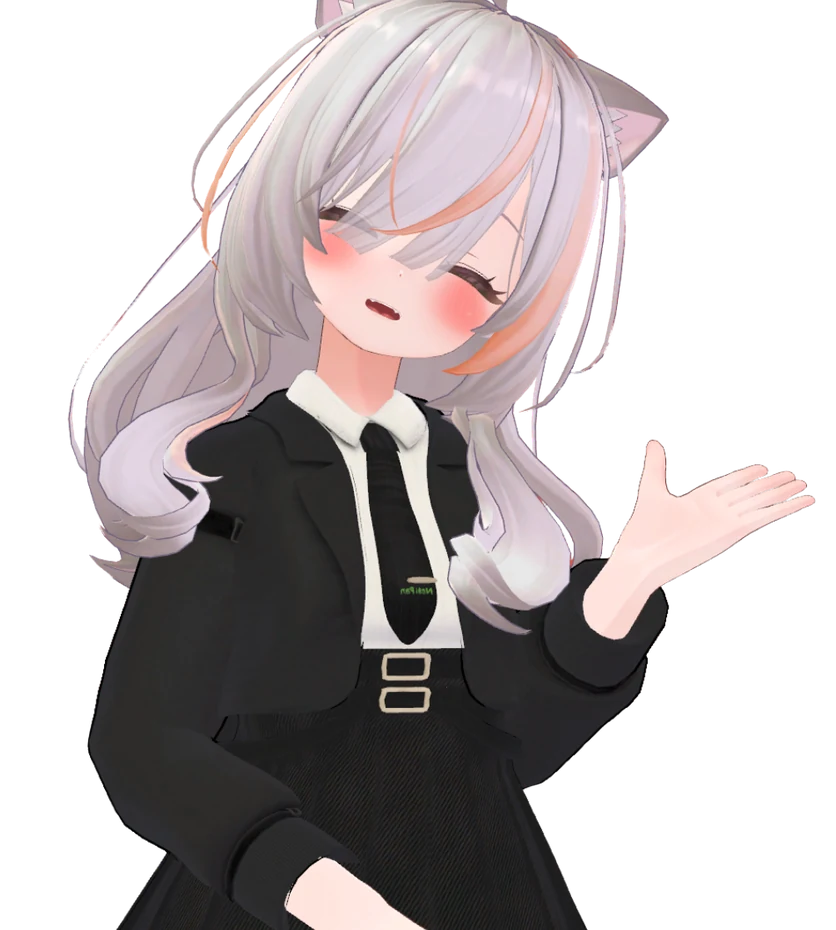
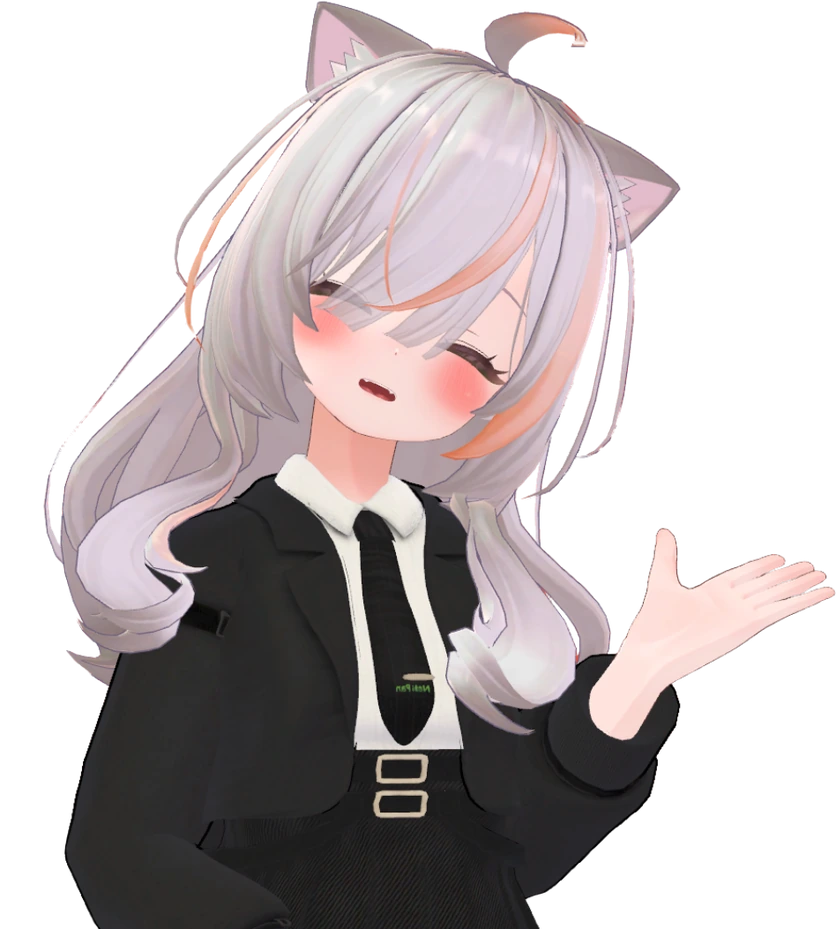
スマホのトップで、めいゆんの頭の先を集会一覧ボタンの上端に揃える (#861)
* スマホのトップで、めいゆんの頭の先を集会一覧ボタンの上端に揃える

Claude-Session: https://claude.ai/code/session_01Lubq5EXbzfQ2LSNgoBTVWM

* トップのヒーローのめいゆんを、耳が切れない形で元画像から切り出し直す

Claude-Session: https://claude.ai/code/session_01Lubq5EXbzfQ2LSNgoBTVWM

---------

diff --git a/app/ta_hub/templates/ta_hub/index.html b/app/ta_hub/templates/ta_hub/index.html
@@ -391,9 +391,9 @@
 
         .top-hero-inner {
             position: relative;
-            min-height: 560px;
             padding-top: 36px;
-            padding-bottom: 200px;
+            /* スマホは めいゆんの頭の先をボタン上端に揃える: 画像の高さ 180px = ボタン 52px + 下余白 128px */
+            padding-bottom: 128px;
         }
 
         .top-hero-copy {

diff --git a/CHANGELOG.md b/CHANGELOG.md
@@ -9,6 +9,7 @@
 
 ## [Unreleased]
 
+- スマホ表示のトップのヒーローで、めいゆんの頭の先が「技術・学術系 集会一覧」ボタンの上端と揃うようにしました。あわせて、めいゆんの耳が上で切れていたので、元画像から耳まで入れて切り出し直しました。
 - お知らせの一覧・記事と発表一覧のページをスマホで速く表示できるようにしました（サムネイルを表示サイズに縮めて配信し、最初に見える画像を優先して読み込みます）。
 - トップページの「VKETコラボ」に、会期が終了して公開済みのアーカイブ記事を設定したコラボの実績が自動で並ぶようにしました。
 - Vket 運営画面で、参加状態を「不参加」「辞退」にする保存と発表の削除に確認を戻しました (#850)。
